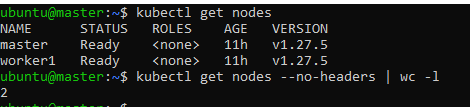
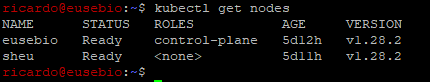
update taint

diff --git a/02-Scheduling/Taints and Tolerations/demo.md b/02-Scheduling/Taints and Tolerations/demo.md
@@ -1,9 +1,15 @@
-1º How many nodes exist on the system?
+## DEMO
 
+### 1. How many nodes exist on the system?
+```
+kubectl get nodes
+```
 ![Alt Text](/00-images/Scheduling/taint.PNG)
 
-2º Do any Tains exist on worker1 node?
-
+### 2. Do any Tains exist on worker node "Sheu"?
+```
+kubectl describe node sheu
+```
 ![Alt Text](/00-images/Scheduling/taint1.PNG)
 
 3º Create a Taint on worker1 node with key=color, value=red and effect:NoSchedule

diff --git a/02-Scheduling/Taints and Tolerations/taint-resume.md b/02-Scheduling/Taints and Tolerations/taint-resume.md
@@ -36,7 +36,7 @@ Referir uma coisa importante, ao utilizarmos taints and toleration não signific
 Spec:
 	Container:
 		- Name: nginx-app
-		Image: nginx 
+		  image: nginx 
 	Tolerations:
 		- Key: "app"
 		Operator: "Equal"
